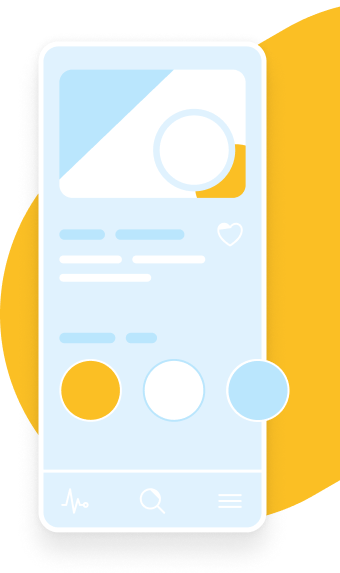
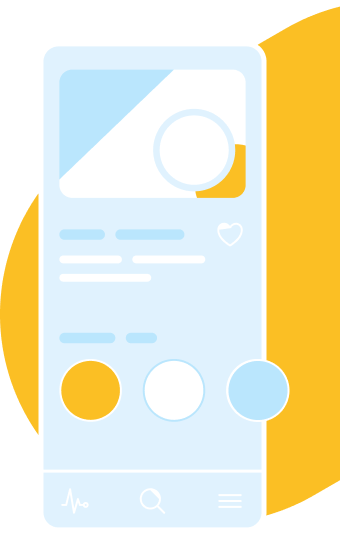
CSS fixes (mobile)

diff --git a/src/components/LandingPage/Intro/index.jsx b/src/components/LandingPage/Intro/index.jsx
@@ -1,21 +1,53 @@
 import styles from './Intro.module.css';
 import intro from '../../../assets/intro.png';
-import orangeCircle from '../../../assets/orange-circle.png';
-import purpleCircle from '../../../assets/purple-circle.png';
 import Article from '../../Article';
+
+/* Circle icons in the background */
+function OrangeCircle({ className }) {
+    return (
+        <svg
+            width="95"
+            height="251"
+            viewBox="0 0 95 251"
+            fill="none"
+            xmlns="http://www.w3.org/2000/svg"
+            className={className}
+        >
+            <ellipse cx="-30.7869" cy="125.108" rx="124.932" ry="125.108" fill="var(--orange-quaternary" />
+        </svg>
+    );
+}
+
+function PurpleCircle({ className }) {
+    return (
+        <svg
+            width="39"
+            height="211"
+            viewBox="0 0 39 211"
+            fill="none"
+            xmlns="http://www.w3.org/2000/svg"
+            className={className}
+        >
+            <ellipse cx="105.841" cy="105.955" rx="104.872" ry="105.048" fill="var(--purple-secondary)" />
+        </svg>
+    );
+}
 
 export default function Intro() {
     return (
-        <div className={styles.wrapper}>
-            <img src={orangeCircle} alt="an orange circle" className={styles.circle__left} />
-            <img src={purpleCircle} alt="an purple circle" className={styles.circle__right} />
-            <Article
-                supTitle='No more waste'
-                title='Pick the Sun'
-                introduction='Et pulvinar nec interdum integer id urna molestie porta nullam. A, donec ornare sed turpis pulvinar purus maecenas quam a. Erat porttitor pharetra sed in mauris elementum sollicitudin.'
-            >
-                <img src={intro} alt="placeholder for picture in the Intro section" className={styles.image} />
-            </Article>
-        </div>
+        <Article
+            supTitle='No more waste'
+            title='Pick the Sun'
+            introduction='Et pulvinar nec interdum integer id urna molestie porta nullam. A, donec ornare sed turpis pulvinar purus maecenas quam a. Erat porttitor pharetra sed in mauris elementum sollicitudin.'
+            className={styles.article}
+        >
+            <img
+                src={intro}
+                alt="placeholder for picture in the Intro section"
+                className={styles.image}
+            />
+            <OrangeCircle className={styles.circle__left} />
+            <PurpleCircle className={styles.circle__right} />
+        </Article>
     );
 }

diff --git a/src/components/LandingPage/Hero/index.jsx b/src/components/LandingPage/Hero/index.jsx
@@ -1,6 +1,6 @@
 import styles from './Hero.module.css';
-import workerSmall from '../../../assets/worker-mobile.png';
 import worker from '../../../assets/worker.png';
+import worker_lg from '../../../assets/worker_lg.png';
 import { testimonials } from '../../../mock/testimonials';
 import Logo from "../../Logo";
 import QuoteButton from '../../QuoteButton';
@@ -12,17 +12,15 @@ import MenuButton from '../../MenuButton';
  */
 export default function Hero() {
     return (
-        <header>
-            <div className={styles.navWrapper}>
-                <nav className={styles.nav}>
-                    <Logo />
-                    <MenuButton className={styles.nav__button} />
-                    <picture className={styles.nav__bg}>
-                        <source media="(max-width: 600px)" srcSet={workerSmall} />
-                        <img src={worker} alt="a worker installing solar panels" />
-                    </picture>
-                </nav>
-            </div>
+        <header className={styles.header}>
+            <nav className={styles.nav}>
+                <Logo />
+                <MenuButton className={styles.nav__button} />
+                <picture className={styles.nav__bg}>
+                    <source media="(max-width: 600px)" srcSet={worker} />
+                    <img src={worker_lg} alt="a worker installing solar panels" />
+                </picture>
+            </nav>
             <div className={styles.content}>
                 <section className={styles.main}>
                     <h1 className={styles.title}>Get the Sun to Power Your Home</h1>

diff --git a/src/components/LandingPage/Intro/Intro.module.css b/src/components/LandingPage/Intro/Intro.module.css
@@ -1,29 +1,30 @@
-.image {
-    margin-top: 64px;
-    width: 320px;
-    filter: 
-        drop-shadow(0 20px 25px rgba(0,0,0,0.1))
-        drop-shadow(0 0 10px rgba(0,0,0,0.07));
+.article {
+    position: relative;
 }
 
-/* TODO: find a better way to position the circles properly */
-.wrapper {
+.article > p {
     position: relative;
-    overflow-x: hidden;
+    z-index: 1;
+}
+
+.image {
+    margin-top: 64px;
+    max-width: 358px;
+    filter: var(--image-shadow);
+    position: relative;
+    z-index: 1;
 }
 
 .circle__left {
-    width: 250px;
     position: absolute;
-    left: -190px;
-    top: 160px;
-    z-index: -1;
+    left: 0;
+    bottom: 155px;
+    z-index: 0;
 }
 
 .circle__right {
-    width: 210px;
     position: absolute;
-    right: -190px;
-    top: 220px;
-    z-index: -1;
+    right: 0;
+    bottom: 125px;
+    z-index: 0;
 }

diff --git a/src/components/LandingPage/Features/index.jsx b/src/components/LandingPage/Features/index.jsx
@@ -40,7 +40,13 @@ export default function Features() {
                     Elementum, libero, lacus, vel ullamcorper at velit id. Malesuada velit et, ullamcorper malesuada amet, felis. 
                 </InfoCard>
             </div>
-            <img src={features} alt="placeholder for picture in the Features section" />
+            <div className={styles.imageWrapper}>
+                <img
+                    src={features}
+                    alt="placeholder for picture in the Features section"
+                    className={styles.image}
+                />
+            </div>
         </Article>
     );
 }

diff --git a/src/components/LandingPage/Services/index.jsx b/src/components/LandingPage/Services/index.jsx
@@ -40,7 +40,13 @@ export default function Services() {
                     Congue mauris sem vel, urna viverra. Urna, nibh leo suscipit purus ut sed eros, consectetur viverra.
                 </InfoCard>
             </div>
-            <img src={services} alt="placeholder for picture in the Services section" />
+            <div className={styles.imageWrapper}>
+                <img
+                    src={services}
+                    alt="placeholder for picture in the Services section"
+                    className={styles.image}
+                />
+            </div>
         </Article>
     );
 }

diff --git a/src/index.css b/src/index.css
@@ -24,18 +24,22 @@
   --purple-primary: #581C87;
   --purple-secondary: #7E22CE;
   --purple-tertiary: #A252EE;
-  --purple-quaternary: #A855F7;  
+  --purple-quaternary: #A855F7;
 
   /* screen breakpoints */
   --mobile: 375px;
   --desktop: 1920px;
   /* --tablet: ? */
+
+  --image-shadow: 
+    drop-shadow(0 0 10px rgba(0, 0, 0, 0.07))
+    drop-shadow(0 20px 25px rgba(0, 0, 0, 0.1));  
 }
 
-body, button {
+body,
+button {
   font-family: var(--font-family);
   color: var(--black-primary);
-  padding: 0 16px;
 }
 
 a {

diff --git a/src/components/LandingPage/Hero/Hero.module.css b/src/components/LandingPage/Hero/Hero.module.css
@@ -1,9 +1,10 @@
-.navWrapper {
-    height: 333px;
+.header {
+    padding: 10px 16px 48px;
 }
 
 .nav {
-    padding: 10px;
+    height: 333px;
+    margin-bottom: 48px;
 }
 
 .nav__button {
@@ -24,7 +25,6 @@
 }
 
 .content {
-    padding: 48px 0;
     display: flex;
     flex-direction: column;
     row-gap: 64px;
@@ -34,7 +34,8 @@
     display: flex;
     flex-direction: column;
     row-gap: 24px;
-    text-align: center;    
+    text-align: center;
+    align-items: center;
 }
 
 .title {

diff --git a/src/components/InfoCard/index.jsx b/src/components/InfoCard/index.jsx
@@ -5,7 +5,6 @@ import styles from './InfoCard.module.css';
  * @param {string} image - path to the image source.
  * @param {string} imageAlt - alt text for the image.
  * @param {string} title - text for the title.
- * @returns 
  */
 export default function InfoCard({ image, imageAlt, title, children }) {
     return (

diff --git a/src/components/LandingPage/Features/Features.module.css b/src/components/LandingPage/Features/Features.module.css
@@ -5,3 +5,12 @@
     gap: 48px;
     justify-content: space-between;
 }
+
+.imageWrapper {
+    display: flex;
+    margin-right: -16px;
+}
+
+.image {
+    filter: var(--image-shadow);
+}

diff --git a/src/components/LandingPage/Services/Services.module.css b/src/components/LandingPage/Services/Services.module.css
@@ -5,3 +5,12 @@
     gap: 48px;
     justify-content: space-between;
 }
+
+.imageWrapper {
+    display: flex;
+    margin-left: -16px;
+}
+
+.image {
+    filter: var(--image-shadow);
+}

diff --git a/src/components/Article/Article.module.css b/src/components/Article/Article.module.css
@@ -1,5 +1,5 @@
 .article {
-    padding: 48px 0;
+    padding: 48px 16px;
     text-align: center;
 }
 
